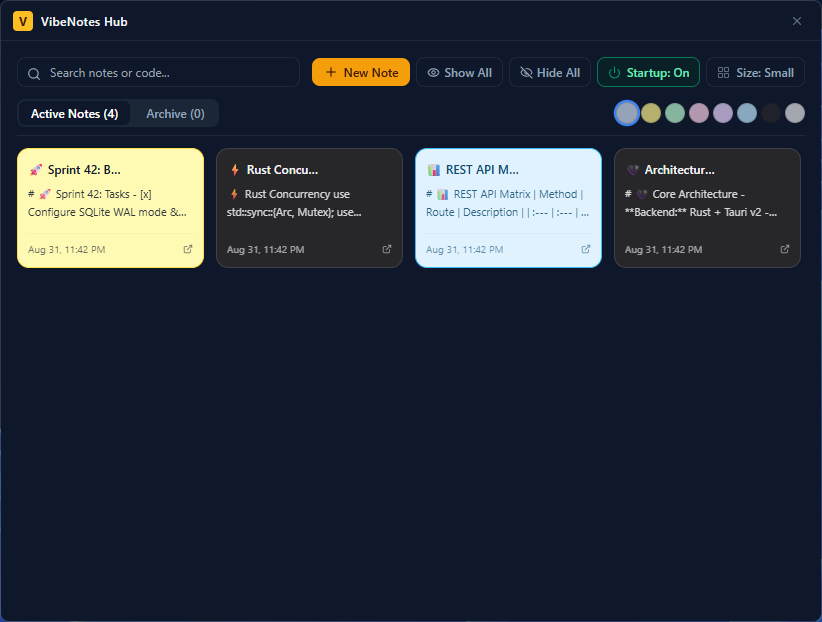
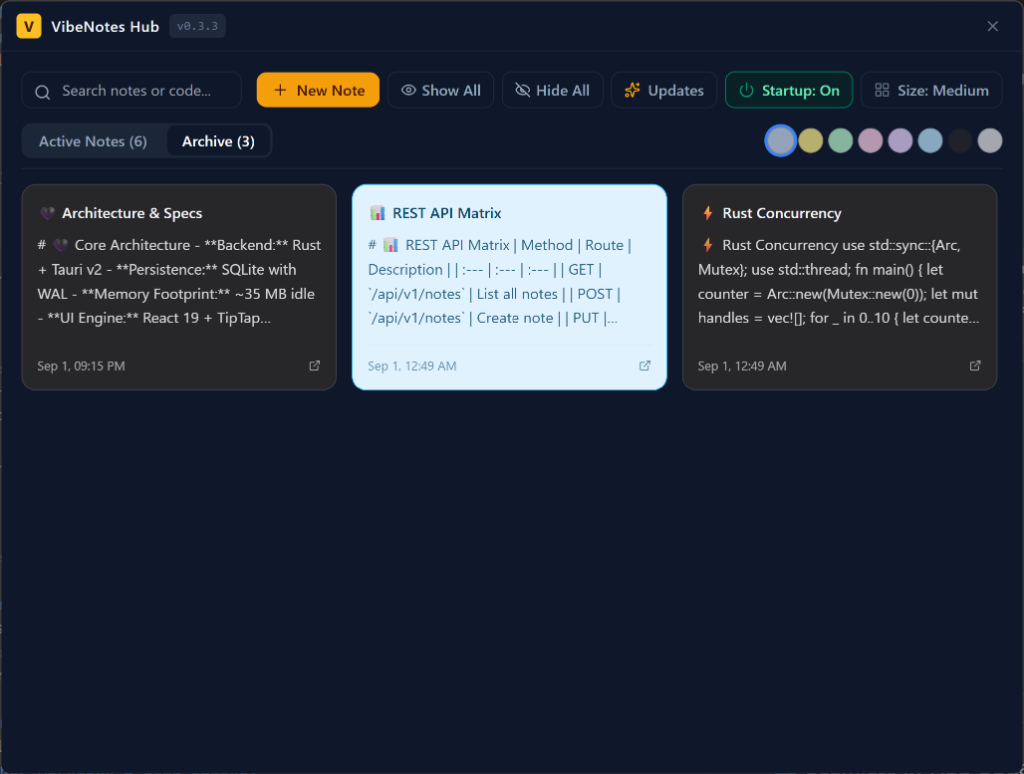
release: v0.3.4 - add native url opener for releases link, update readme and screenshots

diff --git a/src/components/UpdateModal.tsx b/src/components/UpdateModal.tsx
@@ -1,4 +1,5 @@
 import React, { useState, useEffect } from 'react';
+import { invoke } from '@tauri-apps/api/core';
 import { check, Update } from '@tauri-apps/plugin-updater';
 import { relaunch } from '@tauri-apps/plugin-process';
 import { getVersion } from '@tauri-apps/api/app';
@@ -46,7 +47,7 @@ export const UpdateModal: React.FC<UpdateModalProps> = ({
       const ver = await getVersion();
       setCurrentVersion(ver);
     } catch {
-      setCurrentVersion('0.3.3');
+      setCurrentVersion('0.3.4');
     }
   };
 
@@ -132,6 +133,12 @@ export const UpdateModal: React.FC<UpdateModalProps> = ({
     return `${mb.toFixed(1)} MB`;
   };
 
+  const handleOpenReleases = () => {
+    invoke('open_external_url', {
+      url: 'https://github.com/vahabahmadvand/VibeNotes/releases',
+    }).catch((err) => console.error('Failed to open external url:', err));
+  };
+
   if (!isOpen) return null;
 
   return (
@@ -146,7 +153,7 @@ export const UpdateModal: React.FC<UpdateModalProps> = ({
             <div>
               <h3 className="font-semibold text-sm">VibeNotes Updates</h3>
               <p className="text-[11px] text-slate-500 dark:text-zinc-400">
-                Current Version: <span className="font-mono font-medium">v{currentVersion || '0.3.3'}</span>
+                Current Version: <span className="font-mono font-medium">v{currentVersion || '0.3.4'}</span>
               </p>
             </div>
           </div>
@@ -264,30 +271,26 @@ export const UpdateModal: React.FC<UpdateModalProps> = ({
                 </div>
               </div>
 
-              <a
-                href="https://github.com/vahabahmadvand/VibeNotes/releases"
-                target="_blank"
-                rel="noreferrer"
-                className="flex items-center justify-center gap-1.5 text-xs text-blue-600 dark:text-blue-400 hover:underline pt-1"
+              <button
+                onClick={handleOpenReleases}
+                className="flex items-center justify-center gap-1.5 text-xs text-blue-600 dark:text-blue-400 hover:underline pt-1 cursor-pointer"
               >
                 <span>View releases manually on GitHub</span>
                 <ExternalLink size={12} />
-              </a>
+              </button>
             </div>
           )}
         </div>
 
         {/* Modal Footer Actions */}
         <div className="flex items-center justify-between pt-2 border-t border-slate-100 dark:border-zinc-800">
-          <a
-            href="https://github.com/vahabahmadvand/VibeNotes/releases"
-            target="_blank"
-            rel="noreferrer"
-            className="flex items-center gap-1 text-[11px] text-slate-400 dark:text-zinc-500 hover:text-slate-700 dark:hover:text-zinc-300 transition-colors"
+          <button
+            onClick={handleOpenReleases}
+            className="flex items-center gap-1 text-[11px] text-slate-400 dark:text-zinc-500 hover:text-slate-700 dark:hover:text-zinc-300 transition-colors cursor-pointer"
           >
             <span>GitHub Releases</span>
             <ExternalLink size={11} />
-          </a>
+          </button>
 
           <div className="flex items-center gap-2">
             {status === 'available' && (

diff --git a/src/components/NotesHub.tsx b/src/components/NotesHub.tsx
@@ -61,7 +61,7 @@ export const NotesHub: React.FC = () => {
   };
 
   useEffect(() => {
-    getVersion().then(setAppVersion).catch(() => setAppVersion('0.3.3'));
+    getVersion().then(setAppVersion).catch(() => setAppVersion('0.3.4'));
     fetchNotes();
     const interval = setInterval(fetchNotes, 2500);
     return () => clearInterval(interval);
@@ -192,7 +192,7 @@ export const NotesHub: React.FC = () => {
             className="text-[10px] font-mono px-1.5 py-0.5 rounded bg-slate-100 dark:bg-slate-800 text-slate-500 hover:text-amber-600 dark:hover:text-amber-400 hover:bg-amber-50 dark:hover:bg-amber-950/40 transition-colors cursor-pointer"
             title="Check for updates"
           >
-            v{appVersion || '0.3.3'}
+            v{appVersion || '0.3.4'}
           </button>
         </div>
 

diff --git a/src-tauri/src/commands.rs b/src-tauri/src/commands.rs
@@ -256,3 +256,23 @@ pub fn spawn_or_focus_note_window(app: &AppHandle, note: &Note) -> Result<(), St
 
     Ok(())
 }
+
+#[tauri::command]
+pub async fn open_external_url(url: String) -> Result<(), String> {
+    #[cfg(target_os = "windows")]
+    {
+        use std::os::windows::process::CommandExt;
+        const CREATE_NO_WINDOW: u32 = 0x08000000;
+        std::process::Command::new("rundll32")
+            .args(["url.dll,FileProtocolHandler", &url])
+            .creation_flags(CREATE_NO_WINDOW)
+            .spawn()
+            .map_err(|e| e.to_string())?;
+    }
+    #[cfg(not(target_os = "windows"))]
+    {
+        let _ = url;
+    }
+    Ok(())
+}
+

diff --git a/src-tauri/src/lib.rs b/src-tauri/src/lib.rs
@@ -42,6 +42,7 @@ pub fn run() {
             commands::close_hub_window,
             commands::get_autostart_status,
             commands::toggle_autostart,
+            commands::open_external_url,
         ])
         .setup(move |app| {
             let app_handle = app.handle().clone();

diff --git a/README.md b/README.md
@@ -22,6 +22,13 @@ Search notes, filter by color, toggle card sizes, and manage your entire workspa
 
 ---
 
+### 🔄 Seamless In-App Updates
+Check for GitHub releases, view changelogs, download signed updates, and restart with one click:
+
+![VibeNotes Auto-Update](docs/screenshots/auto-update-preview.png)
+
+---
+
 ## ✨ Features
 
 - 🪟 **Floating Frameless Sticky Notes:** Custom drag regions, real-time coordinate & size persistence, and per-note "Always on Top" pin.
@@ -34,6 +41,7 @@ Search notes, filter by color, toggle card sizes, and manage your entire workspa
   - Interactive checklists with nested task lists (`Tab` / `Shift+Tab`).
   - Tables, blockquotes, links, and drag-and-drop image support.
 - 🗄 **Central Notes Hub:** Search, filter by color, archive, or permanently delete notes, with a toggleable card size view (*Small, Medium, Large*).
+- 🔄 **In-App Auto-Updates:** Seamless GitHub Releases integration with Tauri v2 updater. Checks for new releases, displays changelogs, validates cryptographic signatures, downloads in background, and relaunches smoothly.
 - 🔒 **Single Instance Protection:** Native Windows Kernel Mutex ensures only one instance runs at a time.
 - 🤖 **Model Context Protocol (MCP) Server:** Manage your sticky notes with any AI agent (Antigravity, Claude Desktop, Cursor, Claude Code, Cline) with full support for tables, code blocks, checklists, and themes!
 - 💾 **SQLite Storage:** Crash-resilient local database with Write-Ahead Logging (WAL) stored in `%APPDATA%/VibeNotes/vibenotes.db`.
@@ -210,11 +218,13 @@ VibeNotes/
 ├── docs/                      # Screenshots & assets for README
 │   └── screenshots/
 │       ├── sticky-notes-preview.png
-│       └── notes-hub-preview.png
+│       ├── notes-hub-preview.png
+│       └── auto-update-preview.png
 ├── src/                       # React 19 Frontend
 │   ├── components/
 │   │   ├── StickyNote.tsx     # Floating frameless sticky note window
 │   │   ├── NotesHub.tsx       # Central searchable notes manager
+│   │   ├── UpdateModal.tsx    # In-app update & changelog dialog
 │   │   ├── CodeBlockView.tsx  # Syntax-highlighted code block with collapse/expand
 │   │   ├── FormatToolbar.tsx  # WYSIWYG markdown formatting bar
 │   │   ├── ThemePicker.tsx    # 7-color palette switcher

diff --git a/GEMINI.md b/GEMINI.md
@@ -46,8 +46,10 @@ In `src-tauri/capabilities/default.json`, ensure the following permissions remai
 - `"updater:default"`
 - `"process:default"`
 
-### 4. Build Verification (Optional Local Sanity Check)
-```bash
+### 4. Build Verification & File Lock Prevention
+Before building or verifying locally, ensure no running instance of `vibenotes.exe` is active (e.g. running in background or system tray), as Windows locks executable files with `Access is denied (os error 5)`:
+```powershell
+Stop-Process -Name "vibenotes" -Force -ErrorAction SilentlyContinue
 npm run build
 cargo check --manifest-path src-tauri/Cargo.toml
 ```
@@ -62,7 +64,15 @@ git push origin master --tags
 
 ### 6. Automated GitHub Actions
 Pushing the `v*` tag triggers `.github/workflows/release.yml`, which:
-1. Builds the Windows binaries (`.exe`, `.msi`).
-2. Signs the update package using `TAURI_SIGNING_PRIVATE_KEY` and `TAURI_SIGNING_KEY_PASSWORD`.
-3. Generates `latest.json` containing the new version manifest.
-4. Publishes all assets directly to the GitHub Release.
+1. Prepares and sanitizes the signing key (strips whitespace/quotes and ensures valid base64 padding).
+2. Builds the Windows binaries (`.exe`, `.msi`).
+3. Signs the update package using `TAURI_SIGNING_PRIVATE_KEY` and `TAURI_SIGNING_KEY_PASSWORD`.
+4. Generates `latest.json` containing the new version manifest.
+5. Publishes all assets directly to the GitHub Release.
+
+### 7. Troubleshooting & Key Invariants
+- **Base64 Signing Key Padding (`Invalid padding`)**:
+  - `TAURI_SIGNING_PRIVATE_KEY` must be a valid Base64 string whose length is a multiple of 4.
+  - The `.github/workflows/release.yml` workflow includes a `Prepare Signing Key` step that automatically strips quotes/whitespace and appends any missing `=` padding characters.
+- **Frontend Version Display Invariant**:
+  - Never hardcode version strings (e.g. `v0.2.0`) in React components. Always use `getVersion()` from `@tauri-apps/api/app` backed by `"core:app:allow-version"` permissions in `src-tauri/capabilities/default.json`.
